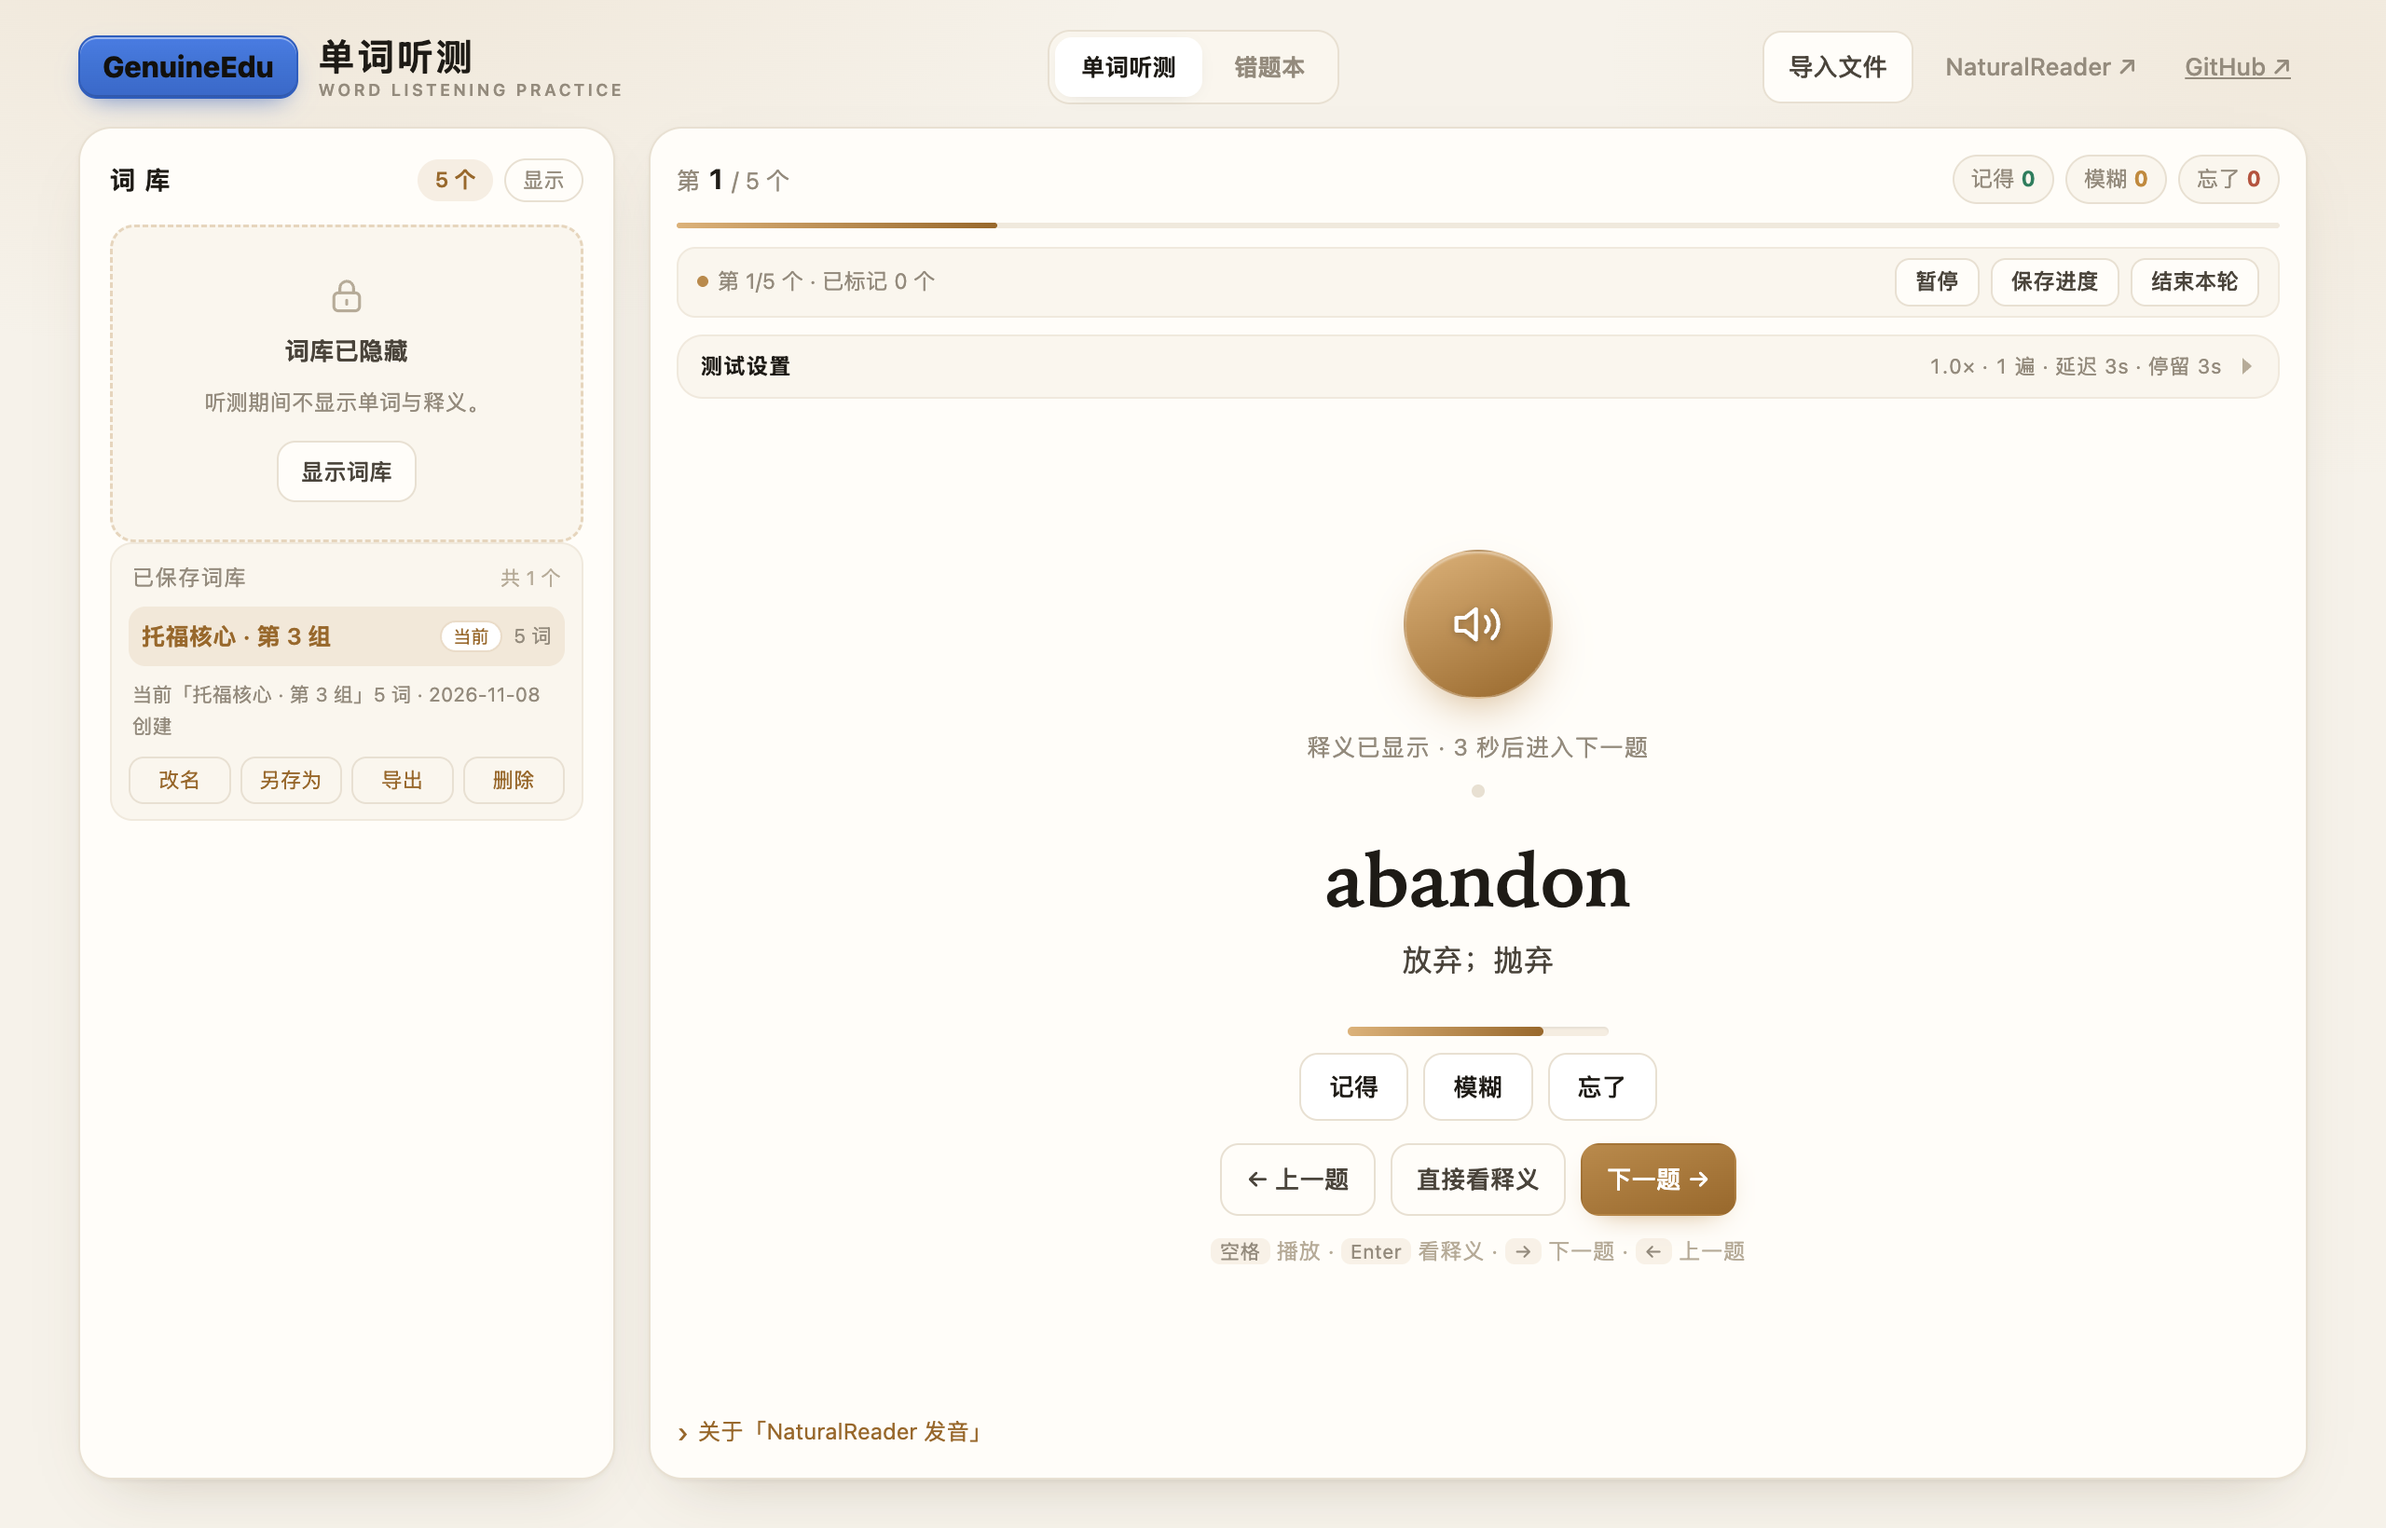
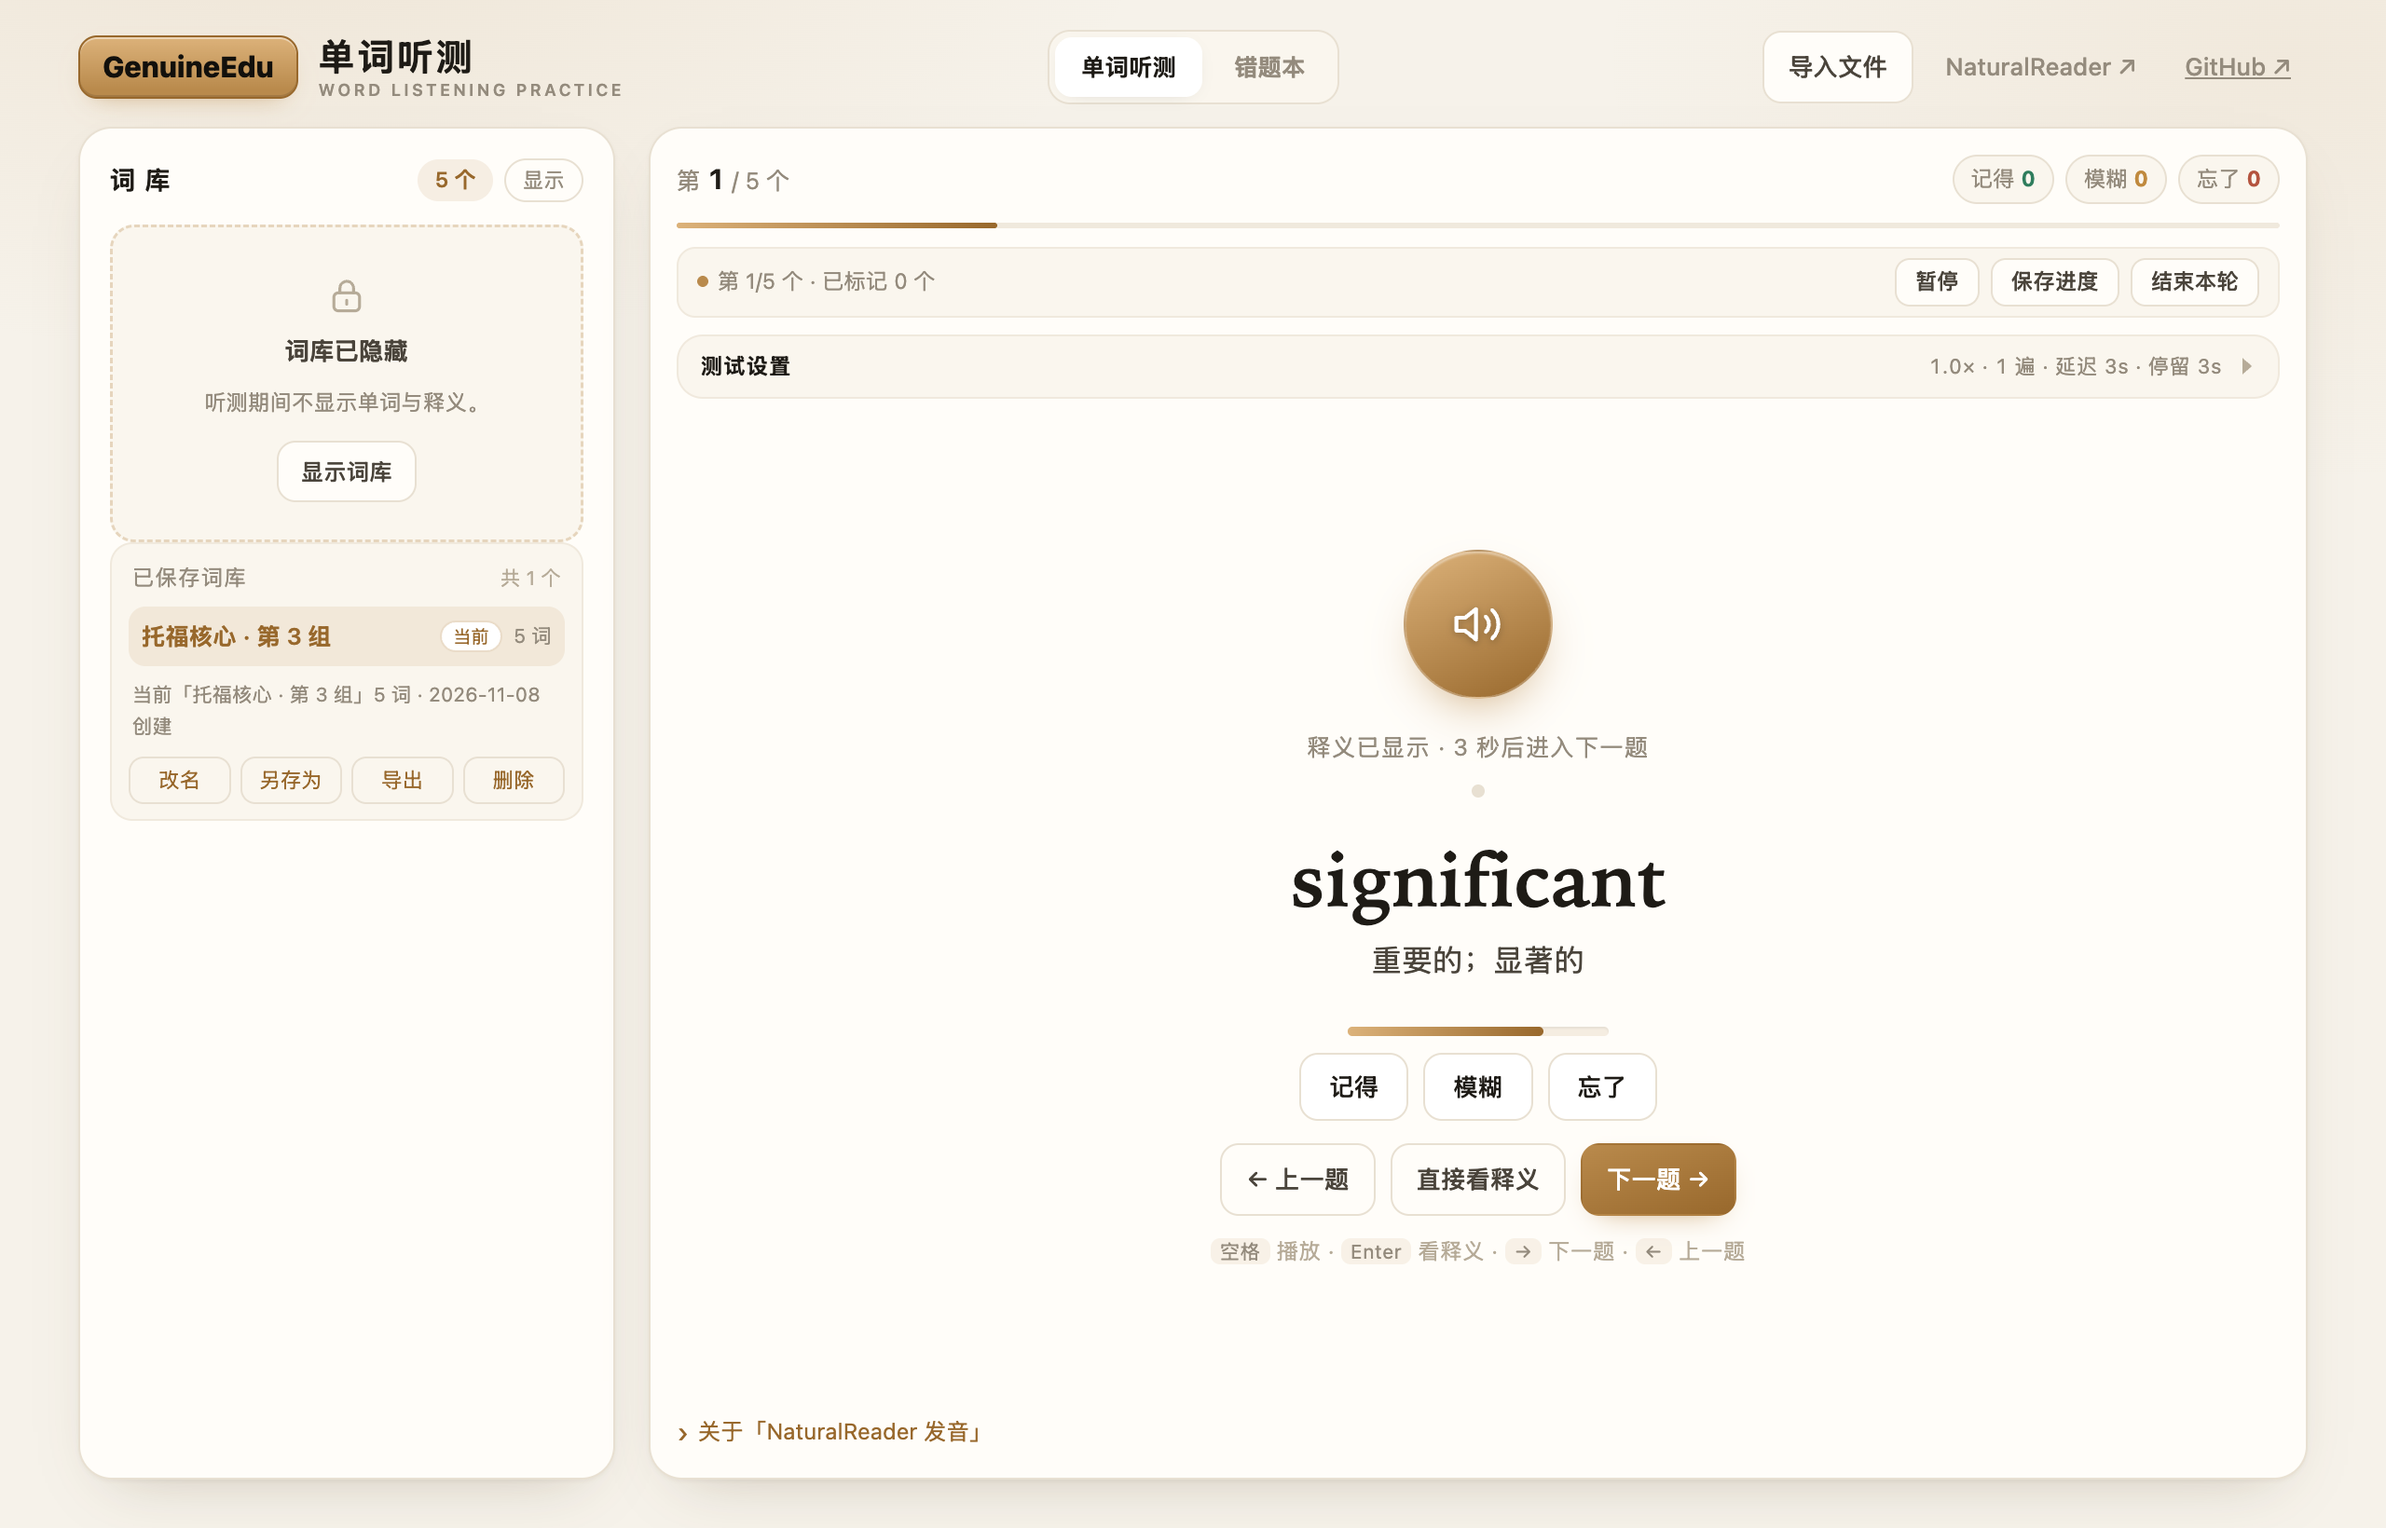
fix(brand): 左上 GenuineEdu 徽标底色由写死蓝色改为 --acc 系列令牌（浅→中强调色渐变 + 深一档描边），跟随「页面配色」与深色模式一起变；重拍 README 两张配图

Changed region(s): [[0.5312, 0.5598, 0.7188, 0.653], [0.0312, 0.0, 0.125, 0.0933]]

diff --git a/index.html b/index.html
@@ -109,14 +109,15 @@ input,select,textarea{font:inherit;color:inherit}
 .app{max-width:1240px;margin:0 auto;padding:22px 22px 44px}
 .topbar{display:flex;align-items:center;justify-content:space-between;gap:16px;margin-bottom:18px;flex-wrap:wrap}
 .brand{display:flex;align-items:center;gap:11px}
-/* 品牌徽标：蓝色圆角胶囊 + 黑色字重（对齐 GenuineEdu 视觉规范） */
+/* 品牌徽标：胶囊底色跟着「页面配色」走（--acc 系列令牌），切主题 / 深色自动跟随，
+   字仍用近黑，和参考设计一致，也不会抢走主按钮的风头 */
 .logo{
   display:inline-flex;align-items:center;justify-content:center;flex:0 0 auto;
   height:34px;padding:0 12px;border-radius:10px;
   font-size:15.5px;font-weight:800;letter-spacing:-.005em;line-height:1;color:#12100c;
-  background:linear-gradient(180deg,#4a7ce2 0%,#4173d4 46%,#3a68c8 100%);
-  border:1px solid #2f5dbd;
-  box-shadow:0 6px 14px -7px rgba(47,93,189,.75),inset 0 1px 0 rgba(255,255,255,.45),inset 0 -1px 0 rgba(0,0,0,.14);
+  background:linear-gradient(180deg,var(--acc-lt) 0%,var(--acc) 88%);
+  border:1px solid var(--acc-d);
+  box-shadow:0 6px 14px -8px rgba(var(--acc-rgb),.7),inset 0 1px 0 rgba(255,255,255,.45),inset 0 -1px 0 rgba(0,0,0,.12);
 }
 .brand h1{margin:0;font-size:19.5px;letter-spacing:.06em;font-weight:700;white-space:nowrap;color:var(--ink);line-height:1.15}
 .brand p{margin:2px 0 0;font-size:9px;font-weight:600;color:var(--muted);letter-spacing:.16em;line-height:1.1;white-space:nowrap}
